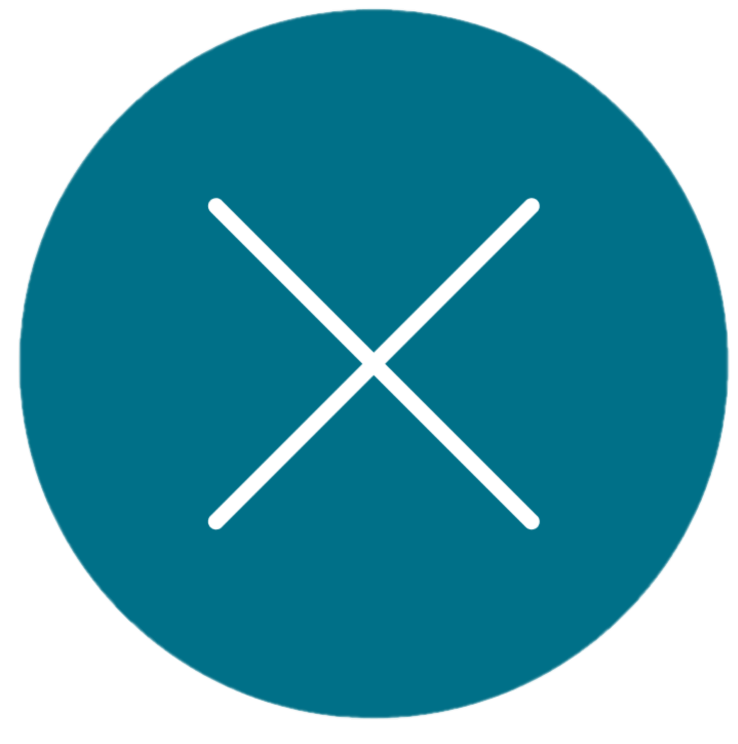
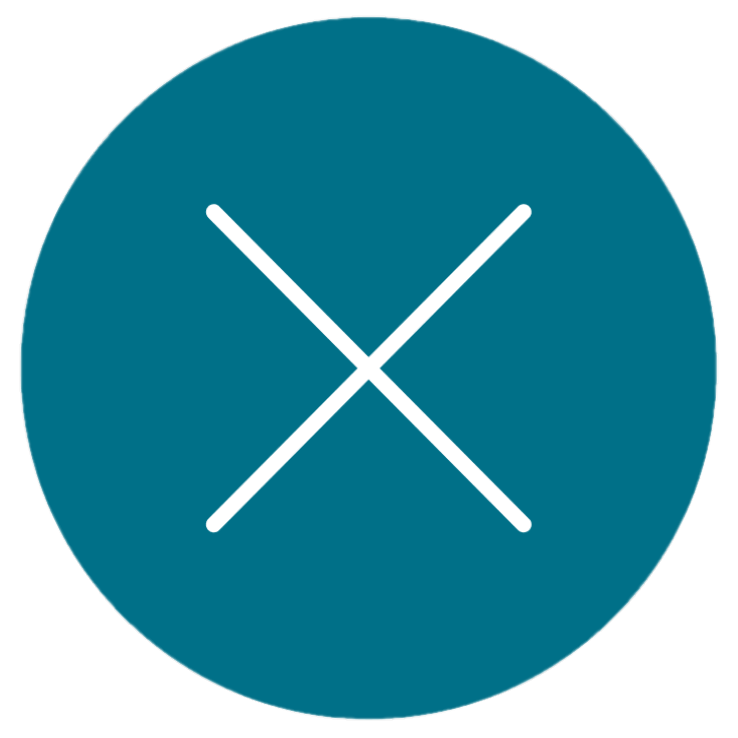
Nuevos cambios
Cambios previo a la nueva configuración de botones

diff --git a/frontend/src/components/customComponents/DiagnosisComponent.tsx b/frontend/src/components/customComponents/DiagnosisComponent.tsx
@@ -1,11 +1,13 @@
 import {
   Autocomplete,
+  Avatar,
   Box,
   Button,
   Dialog,
   DialogActions,
   DialogContent,
   DialogTitle,
+  Grid,
   IconButton,
   Paper,
   TextField,
@@ -16,6 +18,7 @@ import ClearSharpIcon from "@mui/icons-material/ClearSharp";
 import AddIcon from "@mui/icons-material/Add";
 import { getSuggestedDiagnostic, getDiagnosticTypes, createDoctorDiagnostic, getDoctorDiagnostics, deleteDoctorDiagnostics } from "../../service/user.service";
 import { useTranslation } from "react-i18next";
+import xButton from "../../static/images/xButton.png"
 
 interface Diagnostic {
   diagnosticId: number,
@@ -55,32 +58,32 @@ const DeletableBoxItem = ({
 
   return (
     <>
-      <Box display={"flex"} flexDirection={"row"}>
-        <Paper sx={{ width: "98%", margin: "1%" }}>
-          <Box
+      <Box display={"flex"} flexDirection={"row"} maxWidth={"100%"} marginY={"1%"}
+      sx={{border: 1,
+        borderColor: "#E4EDEF",
+        borderRadius: "1%",
+      }}>
+          <Grid container
             display={"flex"}
-            justifyContent={"space-between"}
-            width={"100%"}
-            marginRight={"3%"}
           >
-            <Typography fontSize={"70%"} sx={{ color: "#000000" }}>
+            <Grid item xs={9} sm={9} md={9} lg={9} display={'flex'} justifyContent={'flex-start'} alignItems={"center"} >
+            <Typography fontSize={"65%"} fontWeight={"bold"}>
               {label}
             </Typography>
-            <IconButton
-              size="small"
-              edge={"end"}
-              onClick={handleDeleteClick}
-              sx={{ color: "#e45c64" }}
-            >
-              <ClearSharpIcon fontSize={"inherit"} />
-            </IconButton>
-          </Box>
-        </Paper>
+            </Grid>
+            <Grid item xs={3} sm={3} md={3} lg={3} display={'flex'} justifyContent={'flex-end'} alignItems={"center"}>
+              <Button
+                onClick={handleDeleteClick}
+              >
+                <Avatar src={xButton} alt={"checkVerde"} variant={"circular"}  />
+              </Button>
+            </Grid>
+          </Grid>
       </Box>
       <Dialog open={deleteDialogOpen} onClose={handleDeleteCancel}>
         <DialogTitle>{t("confirmDelete")}</DialogTitle>
         <DialogContent>
-          <Typography color={"#000000"}>
+          <Typography fontWeight={"bold"}>
             {t("askBeforeDeleting")} {label}?
           </Typography>
         </DialogContent>
@@ -91,7 +94,10 @@ const DeletableBoxItem = ({
             variant="contained"
             color="error"
           >
+          <Typography fontWeight={"bold"} color={"#ffffff"}>
             {t("delete")}
+          </Typography>
+
           </Button>
         </DialogActions>
       </Dialog>
@@ -230,11 +236,11 @@ const DiagnosisComponent: React.FC<DiagnosisProps> = ({
   return (
     <>
       <Box width={"100%"} mb={"5%"} display={"flex"} justifyContent={"center"}>
-        <Typography color={"#000000"} fontSize={"80%"}>
+        <Typography fontWeight={"bold"} fontSize={"130%"}>
           {t("suggestedDiagnoses")}
         </Typography>
       </Box>
-      <Box>
+      <Box width={"100%"}>
         {DiagnosticosSugeridos.length>0 && DiagnosticosSugeridos.map((item: Diagnostic) => (
           <DeletableBoxItem
             key={item.diagnosticId}
@@ -252,7 +258,7 @@ const DiagnosisComponent: React.FC<DiagnosisProps> = ({
           />
         ))}
         <IconButton size="small" edge={"end"} onClick={handleAdd}>
-          <AddIcon fontSize={"inherit"} sx={{ color: "#36c513" }} />
+          <AddIcon fontSize={"inherit"} sx={{ color: "#007088" }} />
         </IconButton>
         <Dialog fullWidth={false} maxWidth={"sm"}  open={openAddDialog} onClose={handleAddDialogClose}>
           <DialogTitle>{t("add")} {t("patology")}</DialogTitle>

diff --git a/frontend/src/components/customComponents/AnalisisBox.tsx b/frontend/src/components/customComponents/AnalisisBox.tsx
@@ -120,10 +120,10 @@ const AnalisisBox: React.FC<AnalisisProps> = ({ examId }): JSX.Element => {
     const getReviewState = (state: boolean) : JSX.Element => {
     if (state === true) {
       return(
-          <Avatar src={Check} alt={"checkVerde"} variant={"square"} sx={{maxWidth: "85%", maxHeight: "85%"}}/>      )
+          <Avatar src={Check} alt={"checkVerde"} variant={"square"} sx={{maxWidth: "65%", maxHeight: "65%"}}/>      )
     } else {
       return (
-          <Avatar src={X} alt={"checkRojo"} variant={"square"} sx={{maxWidth: "85%", maxHeight: "85%"}}/>
+          <Avatar src={X} alt={"checkRojo"} variant={"square"} sx={{maxWidth: "65%", maxHeight: "65%"}}/>
         )
     }
   }
@@ -153,6 +153,10 @@ const AnalisisBox: React.FC<AnalisisProps> = ({ examId }): JSX.Element => {
   };
 
 
+  const date = analisisData?.created_at.includes("T")
+    ? analisisData?.created_at.replace("T", " ").split(".")[0]
+    : analisisData?.created_at.split(".");
+
   return (
     <Grid container>
     {/* Sector de los datos del exámen */}
@@ -168,7 +172,7 @@ const AnalisisBox: React.FC<AnalisisProps> = ({ examId }): JSX.Element => {
       {/* contenedor del folio */}
       <Grid container>
         <Grid item  
-            xs={12} sm={12} md={5} lg={5} display={"flex"} justifyContent={"flex-start"} paddingLeft={"5%"}>
+            xs={5} sm={5} md={5} lg={5} display={"flex"} justifyContent={"flex-start"} paddingLeft={"5%"}>
             <Typography fontSize={"65%"} fontWeight={"bold"}>
             {t("folio")}
             </Typography>
@@ -182,14 +186,14 @@ const AnalisisBox: React.FC<AnalisisProps> = ({ examId }): JSX.Element => {
       {/* contenedor de la fecha */}
       <Grid container>
       <Grid item  
-            xs={12} sm={12} md={5} lg={5} display={"flex"} justifyContent={"flex-start"} paddingLeft={"5%"}>
+            xs={5} sm={5} md={5} lg={5} display={"flex"} justifyContent={"flex-start"} paddingLeft={"5%"}>
             <Typography fontSize={"65%"} fontWeight={"bold"}>
             {t("date")}
             </Typography>
         </Grid>
         <Grid item xs={7} sm={7} md={7} lg={7}>
           <Typography fontSize={"65%"} fontWeight={"bold"}>
-            {analisisData?.created_at}
+            {date}
           </Typography>
         </Grid>
       </Grid>
@@ -214,7 +218,7 @@ const AnalisisBox: React.FC<AnalisisProps> = ({ examId }): JSX.Element => {
         >
           <Grid item  
             xs={5} sm={5} md={5} lg={5} display={"flex"} justifyContent={"flex-start"} paddingLeft={"5%"}>
-            <Typography fontSize={"80%"}>
+            <Typography fontSize={"65%"} fontWeight={"bold"}>
             {t("state")}
             </Typography>
           </Grid>

diff --git a/frontend/src/components/customComponents/DerivationsComponent.tsx b/frontend/src/components/customComponents/DerivationsComponent.tsx
@@ -874,7 +874,7 @@ const DerivationsComponent: React.FC<DerivationsProps> = ({examId}): JSX.Element
               <LineChart height={"25%"} width={"25%"} data={timeSeriesIII} der_title={"III"} max_points={2500}/>
             </Grid>
           </Grid>
-          <Grid container display={'flex'} flexDirection={'column'} lg={3}>
+          <Grid container display={'flex'} flexDirection={'column'} lg={3} xs={3} sm={3} md={3}>
             <Grid item padding={'1%'} sx={{bgcolor: 'white'}} alignItems={'center'} justifyContent={'space-evenly'}>
               <LineChart height={"25%"} width={"25%"} data={timeSeriesaVF} der_title={"aVF"} max_points={2500}/>
             </Grid>
@@ -885,7 +885,7 @@ const DerivationsComponent: React.FC<DerivationsProps> = ({examId}): JSX.Element
               <LineChart height={"25%"} width={"25%"} data={timeSeriesaVR} der_title={"aVR"} max_points={2500}/>
             </Grid>
           </Grid> 
-          <Grid container display={'flex'} flexDirection={'column'} lg={3}>
+          <Grid container display={'flex'} flexDirection={'column'} lg={3} xs={3} sm={3} md={3}>
             <Grid item padding={'1%'} sx={{bgcolor: 'white'}} alignItems={'center'} justifyContent={'space-evenly'}>
               <LineChart height={"25%"} width={"25%"} data={timeSeriesV1} der_title={"V1"} max_points={2500}/>
             </Grid>
@@ -896,7 +896,7 @@ const DerivationsComponent: React.FC<DerivationsProps> = ({examId}): JSX.Element
               <LineChart height={"25%"} width={"25%"} data={timeSeriesV3} der_title={"V3"} max_points={2500}/>
             </Grid>
           </Grid> 
-          <Grid container display={'flex'} flexDirection={'column'} lg={3}>
+          <Grid container display={'flex'} flexDirection={'column'} lg={3} xs={3} sm={3} md={3}>
             <Grid item padding={'1%'} sx={{bgcolor: 'white'}} alignItems={'center'} justifyContent={'space-evenly'}>
               <LineChart height={"25%"} width={"25%"} data={timeSeriesV4} der_title={"V4"} max_points={2500}/>
             </Grid>

diff --git a/frontend/src/i18n.tsx b/frontend/src/i18n.tsx
@@ -69,8 +69,8 @@ const resources = {
       en: "English",
       folio: "Folio",
       validateMeasurements: "Validate measurements",
+      analysis: "Analisis",
       undoValidation: "Undo validation",
-      analysis: "Analysis",
       accepted: "Accepted",
       refused: "Refused",
       confirmDelete: "Confirm Delete",
